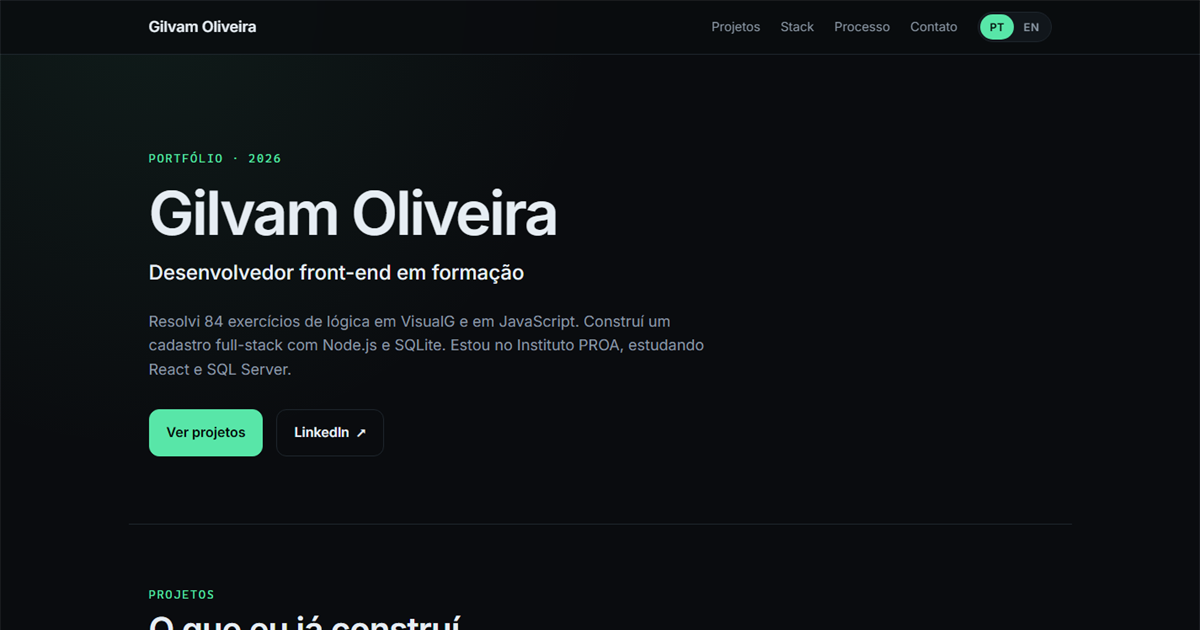
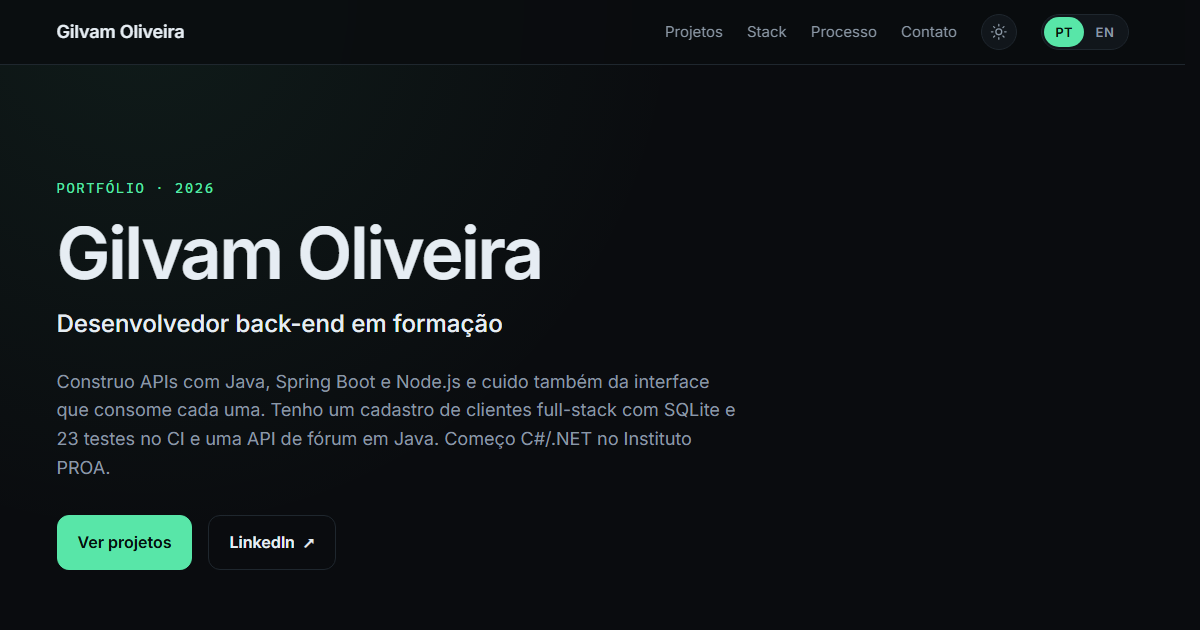
docs: reposition profile for back-end and update preview

diff --git a/README.md b/README.md
@@ -2,9 +2,9 @@
 
 # Gilvam Oliveira
 
-**Desenvolvedor front-end em formação**
+**Desenvolvedor back-end em formação**
 
-HTML5 · CSS3 · JavaScript · React · SQL Server
+Java · Spring Boot · Node.js · APIs REST · SQL · iniciando C#/.NET
 
 São Paulo — remoto ou híbrido · aberto a estágio e posições júnior
 
@@ -24,58 +24,70 @@ Site em React + Vite, bilíngue (PT-BR/EN-US) e com foco em acessibilidade. [Abr
 
 ## Sobre
 
-Desenvolvo interfaces com HTML semântico, CSS responsivo, JavaScript e React. Meus projetos estão publicados e com código aberto: uma plataforma com 84 exercícios de lógica, 70 exercícios de HTML e CSS e um cadastro de clientes full-stack com Node.js e SQLite.
+Desenvolvo APIs e as aplicações que consomem essas APIs. No back-end trabalho com Java, Spring Boot, Node.js e SQL; no front-end, com HTML, CSS, JavaScript e React.
 
-Concluí o Oracle Next Education (ONE) e sigo no Instituto PROA. Hoje aprofundo React, SQL Server e TypeScript. Os projetos de lógica e o cadastro têm testes automatizados e CI; o cadastro também usa ESLint e Prettier.
+Meu objetivo é atuar como desenvolvedor back-end em C#/.NET. Começo o módulo de C# do Instituto PROA e os projetos dessa stack entram aqui conforme o curso avança. Até agora, o back-end que está publicado é em Java e Node.js.
+
+Antes do PROA, concluí o Oracle Next Education (ONE), onde fiz os projetos de Java e Spring Boot que aparecem abaixo.
 
 ## Stack
 
+**Back-end:** Java 17 · Spring Boot · Spring Data JPA · Node.js · APIs REST
+
+**Dados:** SQL · MySQL · PostgreSQL · SQL Server · SQLite · Flyway
+
+**Qualidade:** JUnit · `node:test` · GitHub Actions · ESLint · Prettier · Docker
+
 **Front-end:** HTML5 · CSS3 · JavaScript (ES6+) · React · Vite
 
-**Back-end e dados:** Node.js · APIs REST · SQL · SQL Server · SQLite
+**Ferramentas:** Git · GitHub · Maven · Figma
 
-**Qualidade:** testes com `node:test` · GitHub Actions · ESLint · Prettier
-
-**Ferramentas:** Git · GitHub · Figma
-
-**Estudando:** TypeScript · C#
+**Próximo passo:** C#/.NET no Instituto PROA
 
 ## Projetos em destaque
 
+### ForumHub — API REST de fórum
+
+API de tópicos de fórum com Java 17, Spring Boot, Spring Data JPA, MySQL e Flyway. Tem DTOs, validação, migrations e cadastro que recusa título e mensagem duplicados. O login emite um JWT; a validação desse token nas requisições ainda está em implementação e isso está registrado no README.
+
+**Meu papel:** desafio do ONE — modelagem, endpoints, migrations e configuração por ambiente.
+
+`Java` `Spring Boot` `JPA` `MySQL` `JWT` · [Código](https://github.com/GilvamOliveira/forumhub)
+
+### Cadastro de Clientes — API + interface
+
+Cadastro de clientes com API REST em Node.js e SQLite, paginação, busca, filtros e ordenação feitos no servidor. A autenticação por token é opcional, há rate limiting por rota, CORS restrito e 23 testes automatizados rodando no CI. A mesma interface funciona sem back-end, com fallback para `localStorage` na demo estática.
+
+**Meu papel:** construí a base a partir do projeto do curso e evoluí a API, os testes e a configuração de deploy.
+
+`JavaScript` `Node.js` `SQLite` `REST` `Docker` · [Demo](https://gilvamoliveira.github.io/client-registry/) · [Código](https://github.com/GilvamOliveira/client-registry)
+
+### LiterAlura — catálogo de livros
+
+Catálogo que consulta a API Gutendex e salva livros e autores com JPA e PostgreSQL, permitindo buscar por título, listar autores e filtrar por idioma.
+
+**Meu papel:** implementação do desafio do ONE.
+
+`Java` `Spring Boot` `JPA` `PostgreSQL` · [Código](https://github.com/GilvamOliveira/LiterAlura)
+
 ### Meteoro de Lógica
 
-Plataforma de estudo com 84 exercícios de lógica das apostilas Manzano e Faccat, com soluções em VisualG e JavaScript lado a lado, execução no navegador, testes automatizados e CI.
+Plataforma de estudo com os 84 exercícios das apostilas Manzano e Faccat. As soluções aparecem em VisualG e JavaScript lado a lado, e um interpretador de VisualG escrito em JavaScript executa os programas direto no navegador. Tem 23 testes e CI.
 
 **Meu papel:** resolvi os 84 exercícios nas duas linguagens; a interface foi construída com apoio de IA.
 
 `JavaScript` `VisualG` `HTML` `CSS` · [Demo](https://gilvamoliveira.github.io/meteoro-de-logica/) · [Código](https://github.com/GilvamOliveira/meteoro-de-logica)
 
-### Cadastro de Clientes
-
-Cadastro de clientes com validação de campos, busca, filtros, paginação e exportação, em versão estática e com API REST em Node.js e SQLite. Testes de API e validação.
-
-**Meu papel:** construí a base seguindo o projeto do curso e sigo evoluindo o back-end.
-
-`JavaScript` `Node.js` `SQLite` `REST` · [Demo](https://gilvamoliveira.github.io/client-registry/) · [Código](https://github.com/GilvamOliveira/client-registry)
-
-### Exercícios de HTML e CSS
-
-Trilha com 70 exercícios de HTML5 e CSS3 em 11 níveis, de semântica e formulários a layout e responsividade, com projeto final de site institucional.
-
-**Meu papel:** todos os 70 exercícios.
-
-`HTML5` `CSS3` · [Demo](https://gilvamoliveira.github.io/html-css-exercises/) · [Código](https://github.com/GilvamOliveira/html-css-exercises)
-
 [Ver os projetos no portfólio →](https://gilvam.is-a.dev)
 
 ## Design
 
-Sete protótipos de UI no Figma: login, landing pages, app mobile e uma página educativa. [Ver portfólio de design →](https://github.com/GilvamOliveira/design-portfolio)
+Oito protótipos de UI no Figma: login, landing pages, app mobile e uma página educativa. [Ver portfólio de design →](https://github.com/GilvamOliveira/design-portfolio)
 
 ## Formação
 
-- **Instituto PROA** — formação em desenvolvimento, com front-end, C# e introdução a banco de dados (em andamento)
-- **Oracle Next Education (ONE)** — equipe G9, formação em Java, Spring Boot e APIs REST (concluído em julho de 2026)
+- **Instituto PROA** — formação em desenvolvimento com front-end, C# e introdução a banco de dados (em andamento)
+- **Oracle Next Education (ONE)** — equipe G9, Java, Spring Boot e APIs REST (concluído em julho de 2026)
 - **Tecnólogo em Gestão da Tecnologia da Informação** — Universidade Cruzeiro do Sul (2024)
 
 ## Certificações
@@ -84,6 +96,6 @@ Sete protótipos de UI no Figma: login, landing pages, app mobile e uma página 
 
 ## Contato
 
-Aberto a estágio e posições júnior em front-end, remoto ou híbrido em São Paulo.
+Aberto a estágio e posições júnior em back-end, remoto ou híbrido em São Paulo.
 
 [LinkedIn](https://www.linkedin.com/in/gilvam-oliveira) · [E-mail](mailto:oliveiragilvam70@gmail.com) · [Portfólio](https://gilvam.is-a.dev)

diff --git a/README.en.md b/README.en.md
@@ -2,9 +2,9 @@
 
 # Gilvam Oliveira
 
-**Front-end developer in training**
+**Back-end developer in training**
 
-HTML5 · CSS3 · JavaScript · React · SQL Server
+Java · Spring Boot · Node.js · REST APIs · SQL · starting C#/.NET
 
 São Paulo, Brazil — remote or hybrid · open to internships and junior roles
 
@@ -24,57 +24,69 @@ React + Vite site, bilingual (PT-BR/EN-US) and focused on accessibility. [Open p
 
 ## About
 
-I build interfaces with semantic HTML, responsive CSS, JavaScript and React. My projects are published and open source: a platform with 84 programming-logic exercises, 70 HTML and CSS exercises, and a full-stack client registry with Node.js and SQLite.
+I build APIs and the applications that consume them. On the back end I work with Java, Spring Boot, Node.js and SQL; on the front end, with HTML, CSS, JavaScript and React.
 
-I completed Oracle Next Education (ONE) and I'm currently at Instituto PROA. I'm deepening my knowledge of React, SQL Server and TypeScript. The logic projects and the client registry have automated tests and CI; the registry also uses ESLint and Prettier.
+My goal is to work as a back-end developer in C#/.NET. I'm starting the C# module at Instituto PROA, and projects in that stack will show up here as the course moves forward. So far, the back end I have published is built with Java and Node.js.
+
+Before PROA, I completed Oracle Next Education (ONE), where I built the Java and Spring Boot projects listed below.
 
 ## Stack
 
-**Front-end:** HTML5 · CSS3 · JavaScript (ES6+) · React · Vite
+**Back end:** Java 17 · Spring Boot · Spring Data JPA · Node.js · REST APIs
 
-**Back-end and data:** Node.js · REST APIs · SQL · SQL Server · SQLite
+**Data:** SQL · MySQL · PostgreSQL · SQL Server · SQLite · Flyway
 
-**Quality:** tests with `node:test` · GitHub Actions · ESLint · Prettier
+**Quality:** JUnit · `node:test` · GitHub Actions · ESLint · Prettier · Docker
 
-**Tools:** Git · GitHub · Figma
+**Front end:** HTML5 · CSS3 · JavaScript (ES6+) · React · Vite
 
-**Learning:** TypeScript · C#
+**Tools:** Git · GitHub · Maven · Figma
+
+**Next step:** C#/.NET at Instituto PROA
 
 ## Featured projects
 
+### ForumHub — forum REST API
+
+Forum topic API built with Java 17, Spring Boot, Spring Data JPA, MySQL and Flyway. It has DTOs, validation, migrations and topic creation that rejects duplicate title and message. Login issues a JWT; token validation on requests is still being implemented, and the README says so.
+
+**My role:** ONE challenge — domain modelling, endpoints, migrations and per-environment configuration.
+
+`Java` `Spring Boot` `JPA` `MySQL` `JWT` · [Source](https://github.com/GilvamOliveira/forumhub)
+
+### Client Registry — API + interface
+
+Client registry with a REST API in Node.js and SQLite, server-side pagination, search, filters and sorting. Token authentication is optional, there is per-route rate limiting, restricted CORS and 23 automated tests running in CI. The same interface works without the back end, falling back to `localStorage` in the static demo.
+
+**My role:** I built the base from the course project and evolved the API, the tests and the deploy setup.
+
+`JavaScript` `Node.js` `SQLite` `REST` `Docker` · [Demo](https://gilvamoliveira.github.io/client-registry/) · [Source](https://github.com/GilvamOliveira/client-registry)
+
+### LiterAlura — book catalogue
+
+Catalogue that queries the Gutendex API and stores books and authors with JPA and PostgreSQL, allowing search by title, author listing and filtering by language.
+
+**My role:** implementation of the ONE challenge.
+
+`Java` `Spring Boot` `JPA` `PostgreSQL` · [Source](https://github.com/GilvamOliveira/LiterAlura)
+
 ### Meteoro de Lógica
 
-Study platform with 84 programming-logic exercises from the Manzano and Faccat workbooks, with VisualG and JavaScript solutions side by side, in-browser execution, automated tests and CI.
+Study platform with the 84 exercises from the Manzano and Faccat workbooks. Solutions appear side by side in VisualG and JavaScript, and a VisualG interpreter written in JavaScript runs the programs in the browser. It has 23 tests and CI.
 
 **My role:** I solved all 84 exercises in both languages; the interface was built with AI assistance.
 
 `JavaScript` `VisualG` `HTML` `CSS` · [Demo](https://gilvamoliveira.github.io/meteoro-de-logica/) · [Source](https://github.com/GilvamOliveira/meteoro-de-logica)
 
-### Client Registry
-
-Client registry with field validation, search, filters, pagination and export, available as a static version and with a REST API in Node.js and SQLite. API and validation tests.
-
-**My role:** I built the base following the course project and keep improving the back end.
-
-`JavaScript` `Node.js` `SQLite` `REST` · [Demo](https://gilvamoliveira.github.io/client-registry/) · [Source](https://github.com/GilvamOliveira/client-registry)
-
-### HTML and CSS Exercises
-
-A 70-exercise HTML5 and CSS3 track across 11 levels, from semantics and forms to layout and responsiveness, with a final institutional website project.
-
-**My role:** all 70 exercises.
-
-`HTML5` `CSS3` · [Demo](https://gilvamoliveira.github.io/html-css-exercises/) · [Source](https://github.com/GilvamOliveira/html-css-exercises)
-
 [See the projects in my portfolio →](https://gilvam.is-a.dev)
 
 ## Design
 
-Seven UI prototypes in Figma: login, landing pages, a mobile app and an educational page. [See the design portfolio →](https://github.com/GilvamOliveira/design-portfolio)
+Eight UI prototypes in Figma: login, landing pages, a mobile app and an educational page. [See the design portfolio →](https://github.com/GilvamOliveira/design-portfolio)
 
 ## Education
 
-- **Instituto PROA** — development program covering front-end, C# and an introduction to databases (in progress)
+- **Instituto PROA** — development program covering front end, C# and an introduction to databases (in progress)
 - **Oracle Next Education (ONE)** — team G9, Java, Spring Boot and REST APIs (completed July 2026)
 - **Technologist degree in Information Technology Management** — Universidade Cruzeiro do Sul (2024)
 
@@ -84,6 +96,6 @@ Seven UI prototypes in Figma: login, landing pages, a mobile app and an educatio
 
 ## Contact
 
-Open to internships and junior front-end roles, remote or hybrid in São Paulo.
+Open to internships and junior back-end roles, remote or hybrid in São Paulo.
 
 [LinkedIn](https://www.linkedin.com/in/gilvam-oliveira) · [Email](mailto:oliveiragilvam70@gmail.com) · [Portfolio](https://gilvam.is-a.dev)
